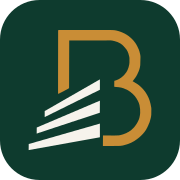
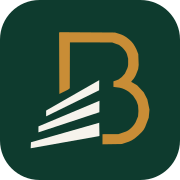
Give the link something to show when it is shared
Pasting the site into WhatsApp produced no preview card because
there was no og:image on any page — only a title and description.
WhatsApp will not render a rich preview without an image, and
twitter:card was set to summary_large_image, promising a large
image and supplying none.

So there is now a 1200x630 card at app/opengraph-image.png and
app/twitter-image.png, picked up by file convention. The lockup is
embedded as vector, so the company name needs no font present to
draw.

Both absolute urls now resolve to www, which is where the site
actually answers; the bare domain 308s to it. og:image is the
reason that matters — some scrapers will not follow a redirect for
it — but robots and the sitemap were pointing at the redirecting
host too.

The icons were a separate fault found on the way. gen-icons.js
rasterises bhumi-estates-favicon.svg and has always described that
source as the monogram on a rounded dark-green square, but the logo
rebuild in 539c149 dropped the plate across the whole set. That
silently turned the favicon source into a transparent monogram:
right as a logo, wrong as an icon, since iOS composites transparent
touch icons on black and the mark's dark strokes vanish against
dark browser chrome. The tile is rebuilt from the dark-background
artwork by scripts/gen-share-assets.js so it cannot drift again.

Sizing it turned up that the monogram neither fills its own viewBox
nor sits centred in it — 3.3% of slack on the left against 7.0% on
[…]

diff --git a/scripts/gen-share-assets.js b/scripts/gen-share-assets.js
@@ -1,0 +1,137 @@
+/* Share and tile artwork, both derived from the logo set in
+   public/img/logos so they cannot drift from it.
+
+   Two outputs:
+
+   1. bhumi-estates-favicon.svg — the monogram on a rounded green
+      tile. gen-icons.js rasterises this into every favicon and app
+      icon, and its comment has always described the source as a
+      plated tile. The logo rebuild dropped the plate from the whole
+      set, which silently made the favicon source a transparent
+      monogram: correct as a logo, wrong as an icon. A transparent
+      apple-touch-icon is composited on black by iOS, and the
+      monogram's dark-green strokes disappear against dark browser
+      chrome. So the tile is rebuilt here from the dark-background
+      artwork (cream strokes, gold B) rather than hand-maintained.
+
+   2. opengraph-image.png / twitter-image.png — what renders when
+      someone pastes a link into WhatsApp, LinkedIn or Slack. The
+      lockup is embedded as vector, so it stays sharp and needs no
+      font to draw the company name.
+
+   Re-run after any change to the logo artwork:
+     node scripts/gen-share-assets.js && node scripts/gen-icons.js
+*/
+const sharp = require('sharp')
+const fs = require('fs')
+const path = require('path')
+
+const root = path.resolve(__dirname, '..')
+const logos = path.join(root, 'public/img/logos')
+
+/* Brand tokens, mirrored from app/globals.css. */
+const GREEN = '#0E3B2E'
+const GREEN_DEEP = '#0A2A20'
+const GOLD = '#C2974A'
+const CREAM = '#F6F3EC'
+
+/** Pull the drawable content and viewBox out of one of the logo SVGs. */
+function readArtwork(name) {
+  const svg = fs.readFileSync(path.join(logos, `${name}.svg`), 'utf8')
+  const viewBox = svg.match(/viewBox="([^"]+)"/)[1]
+  const inner = svg.replace(/^[\s\S]*?<svg[^>]*>/, '').replace(/<\/svg>\s*$/, '')
+  return { viewBox, inner }
+}
+
+/* ── 1. The icon tile ──────────────────────────────────────── */
+
+/* Measured once from bhumi-estates-icon-dark.svg by rendering it to a
+   transparent PNG and taking the non-transparent bounding box. The
+   monogram does not fill its own viewBox, and does not sit centred in
+   it — there is 3.3% of slack on the left against 7.0% on the right.
+   Sizing the tile off the viewBox therefore draws the mark too small
+   and visibly off-centre. Re-measure if the artwork changes. */
+const MONOGRAM = { inkWidthFrac: 0.898, centreXFrac: 0.4815 }
+
+/* How much of the tile the mark's ink should cover. The favicon is
+   read at 16px, where a mark floating in its padding turns to mush. */
+const TILE_INK_COVERAGE = 0.66
+
+function buildTile() {
+  const { viewBox, inner } = readArtwork('bhumi-estates-icon-dark')
+  const S = 1024
+
+  const box = Math.round((S * TILE_INK_COVERAGE) / MONOGRAM.inkWidthFrac)
+  const y = Math.round((S - box) / 2)
+  // Nudge by the mark's own off-centre bias so the ink lands centred.
+  const x = Math.round(y + (0.5 - MONOGRAM.centreXFrac) * box)
+
+  const svg = `<svg xmlns="http://www.w3.org/2000/svg" viewBox="0 0 ${S} ${S}" width="${S}" height="${S}" role="img" aria-label="Bhumi Estates">
+  <rect width="${S}" height="${S}" rx="${Math.round(S * 0.22)}" fill="${GREEN}"/>
+  <svg x="${x}" y="${y}" width="${box}" height="${box}" viewBox="${viewBox}">
+${inner}
+  </svg>
+</svg>
+`
+  fs.writeFileSync(path.join(logos, 'bhumi-estates-favicon.svg'), svg)
+  console.log('tile   -> bhumi-estates-favicon.svg')
+}
+
+/* ── 2. The share card ─────────────────────────────────────── */
+
+async function buildShareCard() {
+  const { viewBox, inner } = readArtwork('bhumi-estates-wordmark-dark')
+
+  const W = 1200
+  const H = 630
+  /* Measured ink aspect of the wordmark crop. The artwork is trimmed
+     to its ink, so width and height can be set directly. */
+  const markW = 620
+  const markH = Math.round(markW / 4.887)
+  const markX = Math.round((W - markW) / 2)
+  const markY = 156
+
+  const svg = `<svg xmlns="http://www.w3.org/2000/svg" width="${W}" height="${H}" viewBox="0 0 ${W} ${H}">
+  <defs>
+    <linearGradient id="bg" x1="0" y1="0" x2="0" y2="1">
+      <stop offset="0%" stop-color="${GREEN}"/>
+      <stop offset="100%" stop-color="${GREEN_DEEP}"/>
+    </linearGradient>
+  </defs>
+  <rect width="${W}" height="${H}" fill="url(#bg)"/>
+
+  <svg x="${markX}" y="${markY}" width="${markW}" height="${markH}" viewBox="${viewBox}">
+${inner}
+  </svg>
+
+  <rect x="${W / 2 - 44}" y="${markY + markH + 58}" width="88" height="2" fill="${GOLD}"/>
+
+  <text x="${W / 2}" y="${markY + markH + 148}" text-anchor="middle"
+        font-family="Georgia, 'Times New Roman', serif" font-size="46" fill="${CREAM}">Land, verified before it is sold.</text>
+
+  <text x="${W / 2}" y="${H - 74}" text-anchor="middle"
+        font-family="Georgia, 'Times New Roman', serif" font-size="21"
+        letter-spacing="4.5" fill="${GOLD}">BENGALURU &#183; SOURCING &#183; BRANDING &#183; OUTDOOR</text>
+</svg>
+`
+
+  const png = await sharp(Buffer.from(svg), { density: 144 })
+    .resize(W, H, { fit: 'fill' })
+    .png({ compressionLevel: 9 })
+    .toBuffer()
+
+  for (const dest of ['app/opengraph-image.png', 'app/twitter-image.png']) {
+    fs.writeFileSync(path.join(root, dest), png)
+    console.log(`share  -> ${dest}`)
+  }
+}
+
+async function main() {
+  buildTile()
+  await buildShareCard()
+}
+
+main().catch((e) => {
+  console.error(e)
+  process.exit(1)
+})

diff --git a/app/layout.tsx b/app/layout.tsx
@@ -4,7 +4,12 @@ import './components.css'
 import WhatsAppFloat from '@/components/WhatsAppFloat'
 import { brand } from '@/lib/content/brand'
 
-const siteUrl = process.env.NEXT_PUBLIC_SITE_URL || 'https://bhumiestates.in'
+/* www, because that is where the site actually answers — the bare
+   domain 308s to it. Every absolute url built from this is one a
+   crawler fetches directly: og:image above all, which some scrapers
+   will not follow a redirect for. Keep NEXT_PUBLIC_SITE_URL, if it is
+   set at all, on the same host. */
+const siteUrl = process.env.NEXT_PUBLIC_SITE_URL || 'https://www.bhumiestates.in'
 
 export const metadata: Metadata = {
   metadataBase: new URL(siteUrl),
@@ -24,9 +29,14 @@ export const metadata: Metadata = {
     'growth corridors Bengaluru',
   ],
   authors: [{ name: brand.name }],
+  /* The image for both cards is app/opengraph-image.png and
+     app/twitter-image.png — Next picks those up by file convention and
+     writes the url, type and dimensions itself. Setting `images` here
+     as well would override them with values nothing keeps in sync. */
   openGraph: {
     type: 'website',
     siteName: brand.name,
+    url: siteUrl,
     title: 'Bhumi Estates — Land sourcing, branding and outdoor advertising',
     description:
       'We find the parcel worth buying, build the identity a project is judged by, and make it impossible to miss. Bengaluru land, branding and outdoor advertising.',
@@ -54,6 +64,10 @@ const organisationJsonLd = {
   description:
     'Land sourcing, verification, development, branding and outdoor advertising for land and property in Bengaluru.',
   url: siteUrl,
+  /* The mark Google may show beside the listing. Absolute, because a
+     crawler resolving structured data has no page to resolve against. */
+  logo: `${siteUrl}/icons/icon-512.png`,
+  image: `${siteUrl}/opengraph-image.png`,
   telephone: brand.phone,
   email: brand.email,
   areaServed: 'Bengaluru, Karnataka, India',

diff --git a/app/manifest.ts b/app/manifest.ts
@@ -9,9 +9,20 @@ export default function manifest(): MetadataRoute.Manifest {
     display: 'standalone',
     background_color: '#F6F3EC',
     theme_color: '#0E3B2E',
+    /* Each tile is declared twice. 'maskable' lets Android crop it to
+       whatever shape the launcher uses instead of shrinking it into a
+       white border; 'any' is what everything else wants. The manifest
+       spec allows both purposes in one space-separated entry, but
+       Next's type takes a single value, so they are listed separately.
+
+       The mark covers 66% of the tile, so it clears the 80% safe
+       circle a maskable icon is cropped to — see TILE_INK_COVERAGE in
+       scripts/gen-share-assets.js before changing either number. */
     icons: [
-      { src: '/icons/icon-192.png', sizes: '192x192', type: 'image/png' },
-      { src: '/icons/icon-512.png', sizes: '512x512', type: 'image/png' },
+      { src: '/icons/icon-192.png', sizes: '192x192', type: 'image/png', purpose: 'any' },
+      { src: '/icons/icon-192.png', sizes: '192x192', type: 'image/png', purpose: 'maskable' },
+      { src: '/icons/icon-512.png', sizes: '512x512', type: 'image/png', purpose: 'any' },
+      { src: '/icons/icon-512.png', sizes: '512x512', type: 'image/png', purpose: 'maskable' },
     ],
   }
 }

diff --git a/app/sitemap.ts b/app/sitemap.ts
@@ -2,7 +2,7 @@ import type { MetadataRoute } from 'next'
 import { practices } from '@/lib/content/services'
 import { insights } from '@/lib/content/insights'
 
-const base = process.env.NEXT_PUBLIC_SITE_URL || 'https://bhumiestates.in'
+const base = process.env.NEXT_PUBLIC_SITE_URL || 'https://www.bhumiestates.in'
 
 export default function sitemap(): MetadataRoute.Sitemap {
   const now = new Date()

diff --git a/app/robots.ts b/app/robots.ts
@@ -1,6 +1,6 @@
 import type { MetadataRoute } from 'next'
 
-const base = process.env.NEXT_PUBLIC_SITE_URL || 'https://bhumiestates.in'
+const base = process.env.NEXT_PUBLIC_SITE_URL || 'https://www.bhumiestates.in'
 
 export default function robots(): MetadataRoute.Robots {
   return {
